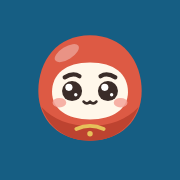
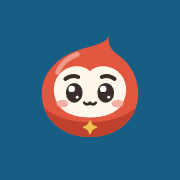
JLPT 루마로 리브랜딩, 마스코트 루마 리디자인 (#4)
- 앱 이름을 카사네에서 JLPT 루마로 변경 (타이틀, PWA 매니페스트, 온보딩, 백업 파일명, README)
- 마스코트 이름을 다루마에서 루마로 변경, 컴포넌트를 Ruma로 이름 변경
- 루마 리디자인: 끝이 말린 물방울 모양 몸통, 세로로 긴 눈, 배의 금색 반짝임
- 진행도 0일 때 바닥에 물결이 비치던 문제 수정
- 새 디자인으로 앱 아이콘 재생성
- 기존 학습 기록 유지를 위해 localStorage 키는 그대로 둠

Claude-Session: https://claude.ai/code/session_01326WXWpugQ2cW8jJhUuoom

Changed region(s): [[0.1944, 0.1944, 0.8056, 0.8056]]

diff --git a/src/components/Ruma.tsx b/src/components/Ruma.tsx
@@ -1,0 +1,104 @@
+import { useId } from 'react'
+
+/**
+ * 루마 (Ruma), the mascot: a drop-shaped daruma with a curled tip and a gold spark on its belly.
+ * It starts the day uncoloured and fills with red, like liquid rising, as today's study gets done.
+ * `fill` is today's progress from 0 to 1. Before the day's study starts it is asleep (`mood="sleep"`).
+ */
+const INK = '#3a2c28'
+const GOLD = '#f0c24f'
+const BODY =
+  'M79 4C80 14 67 16 50 21 27 28 11 45 11 66c0 26 21 44 49 44s49-18 49-44c0-17-8-31-21-40-8-5-10-12-9-22Z'
+const FACE = 'M60 43c6-6 19-7 28 0 10 8 11 22 5 33-6 10-19 14-33 14s-27-4-33-14c-6-11-5-25 5-33 9-7 22-6 28 0Z'
+const TOP = 4
+const BOTTOM = 110
+
+export function Ruma({
+  fill,
+  mood = 'idle',
+  size = 96,
+}: {
+  fill: number
+  mood?: 'idle' | 'cheer' | 'sleep'
+  size?: number
+}) {
+  const id = useId()
+  const f = Math.min(1, Math.max(0, fill))
+  // a full body pushes the surface above the tip, an empty one below the base, so no wave line shows
+  const level = f >= 1 ? TOP - 8 : f <= 0 ? BOTTOM + 8 : BOTTOM - f * (BOTTOM - TOP)
+
+  const eye = (cx: number) => {
+    if (mood === 'sleep')
+      return <path d={`M${cx - 7} 65q7 6 14 0`} fill="none" stroke={INK} strokeWidth="3.2" strokeLinecap="round" />
+    if (mood === 'cheer')
+      return <path d={`M${cx - 8} 68q8-12 16 0`} fill="none" stroke={INK} strokeWidth="4.2" strokeLinecap="round" />
+    return (
+      <>
+        <ellipse cx={cx} cy="65" rx="8.5" ry="10" fill={INK} />
+        <circle cx={cx - 2.6} cy="61" r="3.3" fill="#fff" />
+        <circle cx={cx + 3} cy="69.5" r="1.5" fill="#fff" opacity=".9" />
+      </>
+    )
+  }
+
+  const brows =
+    mood === 'sleep' ? 'M35 55q7 2 13 0M72 55q6 2 13 0' : mood === 'cheer' ? 'M34 50q7-6 14-3M72 47q7-3 14 3' : 'M35 51q6-5 13-2M72 49q7-3 13 2'
+
+  return (
+    <svg className={`ruma ${mood}`} width={size} height={size} viewBox="0 0 120 120" aria-hidden="true">
+      <defs>
+        <clipPath id={`${id}b`}>
+          <path d={BODY} />
+        </clipPath>
+      </defs>
+      <ellipse cx="60" cy="113" rx="32" ry="4.5" fill="#000" opacity=".1" />
+      <g className="ruma-body">
+        <path d={BODY} className="ruma-empty" />
+        <g clipPath={`url(#${id}b)`}>
+          <g className="ruma-liquid" style={{ transform: `translateY(${level}px)` }}>
+            {/* two wave layers drifting sideways; everything below them is solid colour */}
+            <path className="wave back" d="M-60 0q15-7 30 0t30 0 30 0 30 0 30 0 30 0 30 0 30 0V130H-60Z" fill="#f08e76" />
+            <path className="wave" d="M-60 3q15 7 30 0t30 0 30 0 30 0 30 0 30 0 30 0 30 0V130H-60Z" fill="#e2573f" />
+            <g style={{ transform: `translateY(${-level}px)` }}>
+              <path d="M6 74c7 24 27 38 54 38s47-14 54-38c-12 14-31 21-54 21S18 88 6 74Z" fill="#bf412d" style={{ clipPath: `inset(${Math.max(0, level + 6 - 74)}px 0 0 0)` }} />
+            </g>
+          </g>
+        </g>
+        <path d={BODY} className="ruma-outline" />
+        <path d="M27 44c4-9 11-15 20-18" fill="none" stroke="#fff" strokeWidth="5" strokeLinecap="round" opacity=".4" />
+        <path d={FACE} fill="#fff7ea" />
+        <path d={brows} fill="none" stroke={INK} strokeWidth="4" strokeLinecap="round" />
+        {eye(44)}
+        {eye(76)}
+        <ellipse cx="32" cy="76" rx="6" ry="4" fill="#f4a59a" opacity=".85" />
+        <ellipse cx="88" cy="76" rx="6" ry="4" fill="#f4a59a" opacity=".85" />
+        {mood === 'cheer' ? (
+          <>
+            <path d="M53 73q7 12 14 0Z" fill={INK} stroke={INK} strokeWidth="2" strokeLinejoin="round" />
+            <path d="M56.5 78.5q3.5-3 7 0-3.5 3.5-7 0Z" fill="#f0907f" />
+          </>
+        ) : mood === 'sleep' ? (
+          <ellipse cx="60" cy="76" rx="2.6" ry="3" fill={INK} />
+        ) : (
+          <path d="M54 75q3 3.5 6 0q3 3.5 6 0" fill="none" stroke={INK} strokeWidth="2.6" strokeLinecap="round" strokeLinejoin="round" />
+        )}
+        {/* belly spark */}
+        <path d="M60 93.5q1.2 5.3 6.5 6.5-5.3 1.2-6.5 6.5-1.2-5.3-6.5-6.5 5.3-1.2 6.5-6.5Z" fill={GOLD} stroke={GOLD} strokeWidth="1.5" strokeLinejoin="round" />
+      </g>
+      {mood === 'sleep' && (
+        <g className="ruma-zzz" fill="none" strokeWidth="2.6" strokeLinecap="round" strokeLinejoin="round">
+          <path d="M99 32h8l-8 9h8" />
+          <path d="M109 18h6l-6 7h6" />
+          <path d="M116 7h4.5l-4.5 5h4.5" />
+        </g>
+      )}
+      {mood === 'cheer' && (
+        <g className="ruma-sparks" fill={GOLD}>
+          <path d="M10 22l2 5 5 2-5 2-2 5-2-5-5-2 5-2Z" />
+          <path d="M106 12l1.5 4 4 1.5-4 1.5-1.5 4-1.5-4-4-1.5 4-1.5Z" />
+          <path d="M113 42l1.2 3 3 1.2-3 1.2-1.2 3-1.2-3-3-1.2 3-1.2Z" />
+        </g>
+      )}
+    </svg>
+  )
+}

diff --git a/src/styles.css b/src/styles.css
@@ -1,4 +1,4 @@
-/* Kasane — game-style UI: chunky pressable surfaces, bright accents, rounded type. */
+/* JLPT Ruma — game-style UI: chunky pressable surfaces, bright accents, rounded type. */
 :root {
   /* Colour system drawn from traditional Japanese colours (伝統色), kept low in saturation. */
   --bg: #fbfaf5; /* 生成り kinari — unbleached cloth */
@@ -210,9 +210,9 @@ button:disabled { cursor: default; opacity: 0.4; }
 .c-review, .c-review b { color: var(--know-deep); }
 .c-learning, .c-learning b { color: var(--gold-deep); }
 .c-new, .c-new b { color: var(--accent); }
-.daruma { flex: none; overflow: visible; }
-.daruma-body { transform-origin: 60px 108px; animation: wobble 3.2s ease-in-out infinite; }
-.daruma.cheer .daruma-body { animation: hop 0.7s ease-in-out infinite; }
+.ruma { flex: none; overflow: visible; }
+.ruma-body { transform-origin: 60px 108px; animation: wobble 3.2s ease-in-out infinite; }
+.ruma.cheer .ruma-body { animation: hop 0.7s ease-in-out infinite; }
 @keyframes wobble { 0%, 100% { transform: rotate(-3deg); } 50% { transform: rotate(3deg); } }
 @keyframes hop { 0%, 100% { transform: translateY(0) rotate(-2deg); } 50% { transform: translateY(-8px) rotate(2deg); } }
 
@@ -381,7 +381,7 @@ button:disabled { cursor: default; opacity: 0.4; }
 @keyframes fall { to { transform: translateY(105dvh) rotate(540deg); } }
 
 .onboard { align-items: stretch; }
-.onboard .daruma { align-self: center; }
+.onboard .ruma { align-self: center; }
 .how { display: flex; flex-direction: column; gap: 10px; margin: 4px 0 8px; }
 .how li { display: flex; flex-direction: column; padding: 10px 14px; border-radius: 16px; background: var(--surface); border: 2px solid var(--line); }
 .how span { color: var(--muted); font-size: 14px; }
@@ -447,25 +447,25 @@ button:disabled { cursor: default; opacity: 0.4; }
 @media (prefers-reduced-motion: reduce) {
   *, *::before, *::after { animation: none !important; transition: none !important; }
 }
-.daruma-sparks path { transform-box: fill-box; transform-origin: center; animation: twinkle 1.2s ease-in-out infinite; }
-.daruma-sparks path:nth-child(2) { animation-delay: 0.4s; }
-.daruma-sparks path:nth-child(3) { animation-delay: 0.8s; }
+.ruma-sparks path { transform-box: fill-box; transform-origin: center; animation: twinkle 1.2s ease-in-out infinite; }
+.ruma-sparks path:nth-child(2) { animation-delay: 0.4s; }
+.ruma-sparks path:nth-child(3) { animation-delay: 0.8s; }
 @keyframes twinkle { 50% { transform: scale(0.4); opacity: 0.4; } }
 
 /* mascot colour fill */
-.daruma-empty { fill: var(--surface); }
-.daruma-outline { fill: none; stroke: color-mix(in srgb, #dd5a44 55%, var(--line)); stroke-width: 2.5; }
-.daruma-liquid { transition: transform 0.9s cubic-bezier(0.3, 1.2, 0.5, 1); }
-.daruma-liquid .wave { animation: wave 2.4s linear infinite; }
-.daruma-liquid .wave.back { animation-duration: 3.6s; animation-direction: reverse; }
+.ruma-empty { fill: var(--surface); }
+.ruma-outline { fill: none; stroke: color-mix(in srgb, #e2573f 55%, var(--line)); stroke-width: 2.5; }
+.ruma-liquid { transition: transform 0.9s cubic-bezier(0.3, 1.2, 0.5, 1); }
+.ruma-liquid .wave { animation: wave 2.4s linear infinite; }
+.ruma-liquid .wave.back { animation-duration: 3.6s; animation-direction: reverse; }
 @keyframes wave { to { transform: translateX(60px); } }
 
 /* asleep until the day's study starts */
-.daruma.sleep .daruma-body { animation: breathe 3.6s ease-in-out infinite; }
+.ruma.sleep .ruma-body { animation: breathe 3.6s ease-in-out infinite; }
 @keyframes breathe { 0%, 100% { transform: scale(1, 1); } 50% { transform: scale(1.025, 0.97); } }
-.daruma-zzz { stroke: var(--muted); }
-.daruma-zzz path { opacity: 0; animation: zzz 3.6s ease-in-out infinite; }
-.daruma-zzz path:nth-child(2) { animation-delay: 0.6s; }
-.daruma-zzz path:nth-child(3) { animation-delay: 1.2s; }
+.ruma-zzz { stroke: var(--muted); }
+.ruma-zzz path { opacity: 0; animation: zzz 3.6s ease-in-out infinite; }
+.ruma-zzz path:nth-child(2) { animation-delay: 0.6s; }
+.ruma-zzz path:nth-child(3) { animation-delay: 1.2s; }
 @keyframes zzz { 0% { opacity: 0; transform: translate(-4px, 6px); } 30%, 60% { opacity: 1; } 100% { opacity: 0; transform: translate(3px, -6px); } }
-@media (prefers-reduced-motion: reduce) { .daruma-zzz path { opacity: 1; } }
+@media (prefers-reduced-motion: reduce) { .ruma-zzz path { opacity: 1; } }

diff --git a/src/screens/Onboarding.tsx b/src/screens/Onboarding.tsx
@@ -1,5 +1,5 @@
 import { useState } from 'react'
-import { Daruma } from '../components/Daruma'
+import { Ruma } from '../components/Ruma'
 import { LEVELS, type Level } from '../data'
 import { update } from '../store'
 import { formatDay, upcomingExams } from '../util'
@@ -12,8 +12,8 @@ export function Onboarding() {
 
   return (
     <div className="onboard">
-      <Daruma fill={1} size={120} />
-      <p className="eyebrow">카사네 · 重ね</p>
+      <Ruma fill={1} size={120} />
+      <p className="eyebrow">JLPT 루마</p>
       <h1>잊기 전에 한 겹 더, JLPT 단어</h1>
       <ol className="how">
         <li>
@@ -25,8 +25,8 @@ export function Onboarding() {
           <span>기억할수록 며칠 → 몇 주 → 몇 달로 간격이 벌어져요. 모르면 금방 돌아와요.</span>
         </li>
         <li>
-          <b>공부할수록 다루마가 차올라요</b>
-          <span>카드를 넘길수록 다루마에 색이 차오르고, 오늘 분량을 끝내면 가득 차요. XP와 연속 학습도 쌓여요.</span>
+          <b>공부할수록 루마가 차올라요</b>
+          <span>카드를 넘길수록 루마에 색이 차오르고, 오늘 분량을 끝내면 가득 차요. XP와 연속 학습도 쌓여요.</span>
         </li>
       </ol>
 

diff --git a/src/screens/Study.tsx b/src/screens/Study.tsx
@@ -1,6 +1,6 @@
 import { useCallback, useEffect, useMemo, useRef, useState } from 'react'
 import { go } from '../App'
-import { Daruma } from '../components/Daruma'
+import { Ruma } from '../components/Ruma'
 import { Icon } from '../components/Icon'
 import { AiExplain } from '../components/WordSheet'
 import { levelOf, meaning, useLevel } from '../data'
@@ -89,11 +89,11 @@ export function Study() {
             ))}
           </div>
         )}
-        <Daruma fill={cleared ? 1 : (log?.c ?? 0) / ((log?.c ?? 0) + q.waiting)} mood={cleared ? 'cheer' : 'idle'} size={150} />
+        <Ruma fill={cleared ? 1 : (log?.c ?? 0) / ((log?.c ?? 0) + q.waiting)} mood={cleared ? 'cheer' : 'idle'} size={150} />
         <h1>{cleared ? '오늘 목표 달성!' : '잠깐 쉬어 가요'}</h1>
         <p className="muted">
           {cleared
-            ? '다루마가 가득 찼어요. 기억이 흐려질 때쯤 다시 가져올게요.'
+            ? '루마가 가득 찼어요. 기억이 흐려질 때쯤 다시 가져올게요.'
             : `외우는 중인 ${q.waiting}개는 조금 뒤에 다시 나와요.`}
         </p>
         <div className="result-tiles">

diff --git a/src/screens/Home.tsx b/src/screens/Home.tsx
@@ -1,6 +1,6 @@
 import { useEffect, useRef } from 'react'
 import { go } from '../App'
-import { Daruma } from '../components/Daruma'
+import { Ruma } from '../components/Ruma'
 import { Icon } from '../components/Icon'
 import { COUNTS, KO_READY, LEVELS, type Level } from '../data'
 import {
@@ -157,7 +157,7 @@ export function Home() {
 
       <section className="hero">
         <div className="hero-top">
-          <Daruma fill={todo === 0 && !started ? 1 : progress} mood={cleared ? 'cheer' : !started && todo > 0 ? 'sleep' : 'idle'} size={104} />
+          <Ruma fill={todo === 0 && !started ? 1 : progress} mood={cleared ? 'cheer' : !started && todo > 0 ? 'sleep' : 'idle'} size={104} />
           <p className="bubble">{bubble}</p>
         </div>
         {todo > 0 ? (

diff --git a/src/screens/Settings.tsx b/src/screens/Settings.tsx
@@ -15,7 +15,7 @@ export function Settings() {
     const blob = new Blob([JSON.stringify({ ...rest, settings: { ...settings, apiKey: '' } })], { type: 'application/json' })
     const a = document.createElement('a')
     a.href = URL.createObjectURL(blob)
-    a.download = `kasane-backup-${dayKey()}.json`
+    a.download = `jlpt-ruma-backup-${dayKey()}.json`
     a.click()
     URL.revokeObjectURL(a.href)
   }
@@ -27,7 +27,7 @@ export function Settings() {
       if (!confirm('지금 기록을 백업 파일의 내용으로 바꿀까요?')) return
       replaceState({ ...data, settings: { ...data.settings, apiKey: st.apiKey } })
     } catch {
-      alert('카사네 백업 파일이 아니에요.')
+      alert('JLPT 루마 백업 파일이 아니에요.')
     }
   }
 

diff --git a/index.html b/index.html
@@ -5,11 +5,11 @@
     <meta name="viewport" content="width=device-width, initial-scale=1, viewport-fit=cover" />
     <meta name="apple-mobile-web-app-capable" content="yes" />
     <meta name="apple-mobile-web-app-status-bar-style" content="default" />
-    <meta name="apple-mobile-web-app-title" content="카사네" />
+    <meta name="apple-mobile-web-app-title" content="JLPT 루마" />
     <meta name="theme-color" content="#fbfaf5" />
     <link rel="icon" href="./icon.svg" type="image/svg+xml" />
     <link rel="apple-touch-icon" href="./apple-touch-icon.png" />
-    <title>카사네 — JLPT 단어장</title>
+    <title>JLPT 루마 — 간격 반복 단어장</title>
   </head>
   <body>
     <div id="root"></div>

diff --git a/vite.config.ts b/vite.config.ts
@@ -14,9 +14,9 @@ export default defineConfig({
         maximumFileSizeToCacheInBytes: 3_000_000,
       },
       manifest: {
-        name: '카사네 — JLPT 단어장',
-        short_name: '카사네',
-        description: '잊기 전에 한 겹 더, 간격 반복 JLPT 단어장',
+        name: 'JLPT 루마',
+        short_name: 'JLPT 루마',
+        description: '루마와 함께 잊기 전에 한 겹 더, 간격 반복 JLPT 단어장',
         lang: 'ko',
         display: 'standalone',
         orientation: 'portrait',

diff --git a/src/store.ts b/src/store.ts
@@ -51,6 +51,7 @@ export interface State {
   xp: number
 }
 
+// storage keys keep the app's former name (Kasane) so existing learners keep their records
 const KEY = 'kasane.state.v2'
 
 function initial(): State {

diff --git a/README.md b/README.md
@@ -1,6 +1,6 @@
-# 카사네 (重ね) — JLPT 단어장
+# JLPT 루마 — 간격 반복 단어장
 
-간격 반복으로 겹겹이 쌓는 JLPT 단어 학습 PWA. 설치 없이 브라우저에서 열고, 홈 화면에 추가하면 앱처럼 오프라인으로 쓸 수 있습니다.
+마스코트 루마와 함께 간격 반복으로 겹겹이 쌓는 JLPT 단어 학습 PWA. 설치 없이 브라우저에서 열고, 홈 화면에 추가하면 앱처럼 오프라인으로 쓸 수 있습니다.
 
 ## 학습 방식 — 간격 반복
 
@@ -14,7 +14,7 @@ Anki가 쓰는 오픈소스 스케줄러 [FSRS](https://github.com/open-spaced-r
 
 ## 기능
 
-- 게임 요소: 카드마다 XP(답과 무관하게 10), 레벨, 연속 학습, 일일 퀘스트 3개, 50단어마다 도장이 찍히는 급수 여정, 마스코트 다루마(오늘 분량을 넘길수록 색이 액체처럼 차오르고, 끝내면 가득 참)
+- 게임 요소: 카드마다 XP(답과 무관하게 10), 레벨, 연속 학습, 일일 퀘스트 3개, 50단어마다 도장이 찍히는 급수 여정, 마스코트 루마(다루마에서 온 물방울 모양 캐릭터. 오늘 분량을 넘길수록 색이 액체처럼 차오르고, 끝내면 가득 참)
 - 목표 대시보드: 오늘 할 카드, 시험일 D-day, 시험 전에 필요한 하루 새 단어 수, 연속 학습, 장기 기억 단어 수, 기억 유지율, 7일 복습 예보, 학습 기록
 - 학습 세션: 방금 선택 되돌리기, 발음 듣기, 북마크, 키보드(← 모름 · → 앎 · ↑ 쉬움 · Space 뒤집기)
 - 급수별 화면: 기억 상태별 단어 수와 단어 목록
